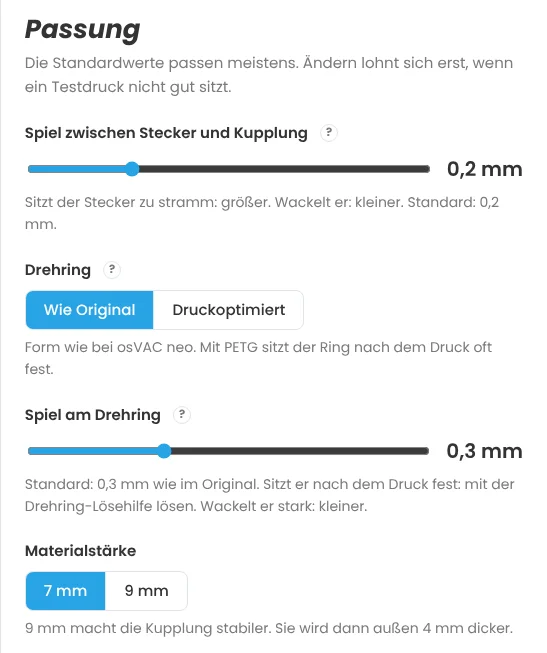
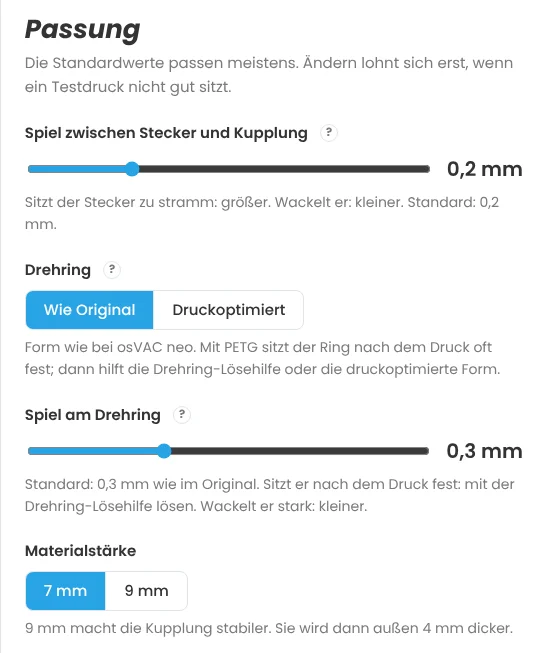
Drehring: Hinweistexte überarbeitet (Original: Lösehilfe statt mehr Spiel; druckoptimiert ohne Entwicklungs-Hinweis)
Claude-Session: https://claude.ai/code/session_012KSPQXJxAYH6j38Lu6Kb25

Changed region(s): [[0.0932, 0.5513, 0.9013, 0.5819]]

diff --git a/src/lib/app.svelte.ts b/src/lib/app.svelte.ts
@@ -403,7 +403,7 @@ class AppState {
     swivel: this.swivelPrint
       ? `Der Drehring wird gleich mitgedruckt. Das Spiel gilt für die beiden senkrechten Dichtflächen; an den Schrägen ist der Spalt 0,15 mm weiter (mindestens 0,45 mm). Ist das Spiel zu klein, klebt er fest; ist es groß, wackelt er und zieht etwas mehr Falschluft. Höchstens ${fmt(this.swivelMax, 2)} mm.`
       : `Der Drehring wird gleich mitgedruckt. Ist das Spiel zu klein, klebt er fest. Höchstens ${fmt(this.swivelMax, 2)} mm${this.kind.id !== 'MH' ? ` bei ${this.input.generalMaterialWidth} mm Materialstärke, sonst berührt der äußere Ring den Schlauchteil` : ''}.`,
-    swivelStyle: 'Wie im Original: Form von osVAC neo, mit PETG sitzt der Ring nach dem Druck oft fest. Druckoptimiert: eigene Form, bei der nichts flach über einem Spalt hängt. Alle Flächen, die beim Druck nach unten zeigen, sind mindestens 45° steil; frei beginnt nur die schmale Spitze eines Rings, 0,65 mm über dem anderen. Der Ring soll sich so direkt nach dem Druck drehen. Passt nicht zu Ersatzteilen des Originals; der Schlauchadapter wird 0,5 mm länger. Noch nicht als Testdruck geprüft.',
+    swivelStyle: 'Wie im Original: Form von osVAC neo, mit PETG sitzt der Ring nach dem Druck oft fest. Druckoptimiert: eigene Form, bei der nichts flach über einem Spalt hängt. Alle Flächen, die beim Druck nach unten zeigen, sind mindestens 45° steil; frei beginnt nur die schmale Spitze eines Rings, 0,65 mm über dem anderen. Der Ring dreht sich so direkt nach dem Druck, auch mit PETG. Passt nicht zu Ersatzteilen des Originals; der Schlauchadapter wird 0,5 mm länger.',
     refill: 'Setzt Platte und Löcher wieder auf Werte, die zur Öffnung passen, so wie beim ersten Umschalten auf „Rechteckig“ oder „Rund“. Deine eigenen Eingaben in diesen Feldern werden dabei ersetzt. Solange du dort nichts selbst änderst, passt das Programm die Werte von allein an, wenn sich die Öffnung ändert.',
     magnetGap: 'Die Muffe ist um das Doppelte dieses Werts weiter als der Stutzen. Die Schraubklemme zieht sie zusammen, deshalb darf es etwas mehr Luft sein als bei einer Steckverbindung. Geht der Adapter schwer auf den Stutzen: größer.',
     magnetFit: 'Luft zwischen dem Bund am Adapter und der Tasche in der Kupplung, je Seite. Der Bund hält die Teile mittig; die Magnete ziehen sie zusammen. Geht die Kupplung schwer auf: größer. Wackelt sie seitlich: kleiner.',
@@ -518,7 +518,11 @@ class AppState {
     else if (!this.femaleOnBed) t.push('Stützen werden nicht gebraucht, im Slicer ausschalten.');
     if (this.femaleOnBed) t.push(this.femaleOnBedText);
     if (this.hasSwivel)
-      t.push(`Nach dem Druck den Schlauchteil einmal kräftig gegen ${this.kind.id === 'FH' ? 'die Kupplung' : this.kind.id === 'BLEED' ? 'das Rohr des Reglers' : 'das Gehäuse'} drehen, bis sich der Ring leicht bewegt. Klemmt er, beim nächsten Mal in „Passung“ das Spiel am Drehring erhöhen.`);
+      t.push(
+        this.swivelPrint
+          ? `Nach dem Druck den Schlauchteil einmal gegen ${this.kind.id === 'FH' ? 'die Kupplung' : this.kind.id === 'BLEED' ? 'das Rohr des Reglers' : 'das Gehäuse'} drehen: Der Ring löst sich mit einem leichten Ruck und läuft dann frei. Geht er schwer, beim nächsten Mal in „Passung“ das Spiel am Drehring etwas erhöhen.`
+          : `Nach dem Druck den Schlauchteil einmal kräftig gegen ${this.kind.id === 'FH' ? 'die Kupplung' : this.kind.id === 'BLEED' ? 'das Rohr des Reglers' : 'das Gehäuse'} drehen, bis sich der Ring leicht bewegt. Sitzt er fest, hilft die Drehring-Lösehilfe.`,
+      );
     if (this.kind.machine && this.machine.holes) t.push('Die drei kleinen Löcher sind für Senkkopfschrauben (Ø 4 mm), falls der Adapter zusätzlich halten soll.');
     if (this.kind.gate) t.push(...this.gateTips);
     if (this.kind.magnet) t.push(...this.magnetTips);
@@ -543,8 +547,8 @@ class AppState {
         `Slicer-Meldung: ${two ? 'Die beiden Ringe werden' : 'Der Ring wird'} gleich mitgedruckt und ${two ? 'liegen' : 'liegt'} mit dem eingestellten Spiel über dem Teil darunter; die unterste Schicht hängt kurz in der Luft. Bambu Studio meldet das je nach Version als „schwebende Bereiche“ oder „fliegender Träger“ (andere Slicer z. B. „floating regions“ oder „floating cantilever“). Das ist gewollt: Meldung wegklicken und keine Stützen einschalten, sonst ${two ? 'wachsen die Ringe' : 'wächst der Ring'} fest.`,
       );
     }
-    if (this.hasSwivel && !this.swivelPrint && this.input.slipRingGapSize <= 0.3)
-      t.push('Drehring: Das Spiel ist auf 0,3 mm (wie im Original). Beim Druck mit PETG kann der Ring damit festsitzen; für PETG in „Passung“ 0,35–0,5 mm einstellen.');
+    if (this.hasSwivel && !this.swivelPrint)
+      t.push('Drehring in der Form des Originals: Mit PETG sitzt er nach dem Druck oft fest, auch mit mehr Spiel. Dann mit der Drehring-Lösehilfe lösen, oder in „Passung“ den druckoptimierten Drehring wählen, der sich direkt nach dem Druck dreht.');
     if (this.hasBleed)
       t.push(`Der Nebenluft-Ring wird gleich mitgedruckt. Nach dem Druck den Ring ein paarmal kräftig hin und her drehen, bis er leicht läuft. Um 60° drehen: von ganz auf (Fenster übereinander) bis ganz zu. Dreht er zu schwer oder klebt fest: in „Passung“ mehr Spiel am Nebenluft-Ring einstellen (jetzt ${fmt(this.bleedGap, 2)} mm).`);
     const c = this.free.c;

diff --git a/public/anleitung.html b/public/anleitung.html
@@ -127,11 +127,11 @@ figure a.zoom{cursor:zoom-in;display:inline-block;max-width:100%}
 <figure class="small"><a href="anleitung/passung-schlauch.webp" class="zoom"><img src="anleitung/passung-schlauch.webp" width="547" height="653" alt="Passung beim Schlauchadapter" loading="lazy"></a><figcaption>Passung beim Schlauchadapter</figcaption></figure>
 <ul>
 <li><strong>Spiel zwischen Stecker und Kupplung:</strong> wie bei <a href="#stecker-kupplung">Stecker ↔ Kupplung</a>.</li>
-<li><strong>Drehring:</strong> <em>Wie Original</em> hat die Form von osVAC neo. <em>Druckoptimiert</em> ist eine eigene Form (in Entwicklung): Alle Flächen, die beim Druck nach unten zeigen, sind mindestens 45° steil, und nichts hängt flach über einem Spalt. Frei in der Luft beginnt nur die schmale Spitze eines Rings, 0,65 mm über dem anderen. So soll sich der Ring direkt nach dem Druck drehen. Der Ring an der Kupplung bzw. am Gehäuse sitzt dabei innen, der Ring am Schlauchteil liegt außen als Hülse darüber. Der Schlauchadapter mit Kupplung wird 0,5 mm länger. Ein Testdruck steht noch aus.</li>
+<li><strong>Drehring:</strong> <em>Wie Original</em> hat die Form von osVAC neo. <em>Druckoptimiert</em> ist eine eigene Form: Alle Flächen, die beim Druck nach unten zeigen, sind mindestens 45° steil, und nichts hängt flach über einem Spalt. Frei in der Luft beginnt nur die schmale Spitze eines Rings, 0,65 mm über dem anderen. So dreht sich der Ring direkt nach dem Druck, auch mit PETG. Der Ring an der Kupplung bzw. am Gehäuse sitzt dabei innen, der Ring am Schlauchteil liegt außen als Hülse darüber. Der Schlauchadapter mit Kupplung wird 0,5 mm länger. Mit Ersatzteilen des Originals passt er nicht zusammen.</li>
 <li><strong>Spiel am Drehring:</strong> Der Ring wird gleich mitgedruckt. Ist das Spiel zu klein, klebt er fest. Standard sind 0,3 mm wie im Original. Beim druckoptimierten Drehring gilt der Wert für die beiden senkrechten Dichtflächen, an den Schrägen ist der Spalt 0,15 mm weiter, mindestens 0,45 mm (Spiel höchstens 0,5 mm). Sitzt der Ring nach dem Druck fest, hilft die <a href="#loesehilfe">Drehring-Lösehilfe</a>.</li>
 <li><strong>Materialstärke:</strong> 9 mm statt 7 mm macht die Kupplung stabiler, sie wird dann außen 4 mm dicker.</li>
 </ul>
-<div class="box tip"><strong>Hinweis:</strong> Nach dem Druck den Schlauchteil einmal kräftig drehen, bis sich der Ring leicht bewegt. Sitzt er richtig fest, hilft die <a href="#loesehilfe">Drehring-Lösehilfe</a>.</div>
+<div class="box tip"><strong>Hinweis:</strong> Nach dem Druck den Schlauchteil einmal gegen die Kupplung bzw. das Gehäuse drehen. Der druckoptimierte Drehring löst sich mit einem leichten Ruck. Der Ring in der Form des Originals braucht oft Kraft; sitzt er richtig fest, hilft die <a href="#loesehilfe">Drehring-Lösehilfe</a>.</div>
 <p class="up"><a href="#oben">nach oben</a></p></section>
 <section><h2 id="stutzen">Adapter auf einen Stutzen</h2>
 <p><em>Kupplung → Stutzen</em> und <em>Stecker → Stutzen</em> verbinden osVAC neo mit einem Gerät, das einen runden Absaugstutzen hat. Du misst den Stutzen mit einem Messschieber aus, die App baut den passenden Adapter.</p>
@@ -395,7 +395,7 @@ figure a.zoom{cursor:zoom-in;display:inline-block;max-width:100%}
 <h3 id="der-stecker-passt-nicht-oder-wackelt">Der Stecker passt nicht oder wackelt.</h3>
 <p>In <a href="#passung">Passung</a> das Spiel ändern: zu stramm → größer, wackelt → kleiner. Dann neu drucken. Mit dem <a href="#druckbett">Druckbett</a> kannst du mehrere Werte auf einmal ausprobieren.</p>
 <h3 id="der-drehring-dreht-sich-nicht">Der Drehring dreht sich nicht.</h3>
-<p>Kräftig drehen, z. B. mit der <a href="#loesehilfe">Drehring-Lösehilfe</a>. Beim nächsten Druck in <a href="#passung">Passung</a> das Spiel am Drehring erhöhen (für PETG 0,35 bis 0,5 mm).</p>
+<p>Kräftig drehen, z. B. mit der <a href="#loesehilfe">Drehring-Lösehilfe</a>. In der Form des Originals sitzt der Ring mit PETG oft fest, auch mit mehr Spiel; beim nächsten Druck in <a href="#passung">Passung</a> besser <em>Druckoptimiert</em> wählen. Klemmt auch der druckoptimierte Drehring, das Spiel etwas erhöhen.</p>
 <h3 id="der-download-ist-gesperrt">Der Download ist gesperrt.</h3>
 <p>Irgendwo ist ein roter Hinweis. Die Karte mit dem roten Ausrufezeichen öffnen und den Hinweis beheben, oft mit einem Klick auf den vorgeschlagenen Knopf. Bei einer <a href="#kontur">eigenen Kontur</a> fehlt vielleicht noch die Kontur (blauer Hinweis).</p>
 <h3 id="die-vorschau-ist-blass">Die Vorschau ist blass.</h3>

diff --git a/src/components/steps/StepFit.svelte b/src/components/steps/StepFit.svelte
@@ -73,7 +73,7 @@
       {/each}
     </div>
     <HelpText id="swivelStyle" />
-    <p class="hint">{app.swivelStyle === 'print' ? 'Eigene Form: soll sich direkt nach dem Druck drehen, Testdruck steht noch aus.' : 'Form wie bei osVAC neo. Mit PETG sitzt der Ring nach dem Druck oft fest.'}</p>
+    <p class="hint">{app.swivelStyle === 'print' ? 'Eigene Form: dreht sich direkt nach dem Druck, auch mit PETG.' : 'Form wie bei osVAC neo. Mit PETG sitzt der Ring nach dem Druck oft fest; dann hilft die Drehring-Lösehilfe oder die druckoptimierte Form.'}</p>
   </fieldset>
 {/if}
 

diff --git a/CHANGELOG.md b/CHANGELOG.md
@@ -8,7 +8,7 @@ Entwicklungsumgebung und Programm haben jetzt denselben Stand: Was bisher nur un
 
 - Nebenluft-Regler: **Nebenluft-Ring druckoptimiert**. An den schrägen Flanken oben und unten ist der Spalt 0,15 mm weiter als das eingestellte Spiel (mindestens 0,45 mm), an der Innenfläche bleibt es wie eingestellt. Der untere Bund ist außen unter dem Anfang des Rings etwas abgesenkt: Die erste Schicht des Rings, die frei beginnt, liegt gut 1 mm über dem Bund statt knapp 0,5 mm. Die Griffzähne wachsen unten schräg aus dem Ring, statt flach in der Luft zu beginnen. Die Mulden der Raste haben etwas mehr Luft. Der Regler wird dadurch 0,4 mm höher (bei 0,2 mm Spiel 0,7 mm). Neue Prüfung `npm run test:bleed`. Testdruck steht aus.
 - Neu: **Magnet-Schnellkupplung Ø100** für große Geräte mit 100-mm-Absaugung. Maschinenadapter mit Schraubklemme (M5 × 25 und selbstsichernde Mutter) und Schlauchkupplung mit Links- oder Rechtsgewinde halten über je 8 eingedruckte Neodym-Magnete (10 × 3, 12 × 5 oder 15 × 3 mm) zusammen, ein Bund zentriert sie. Die Druckhinweise nennen die Höhe der Druckpause zum Einlegen der Magnete. Druckt ohne Stützen. Eigenes System, passt nicht zu osVAC neo. Anleitung mit eigenem Abschnitt.
-- Neu: **druckoptimierter Drehring** am Schlauchadapter (Kupplung ↔ Schlauch, Stecker ↔ Schlauch) und am Nebenluft-Regler, in „Passung“ wählbar (*Wie Original* / *Druckoptimiert*). Er soll sich direkt nach dem Druck drehen: Alle Flächen, die beim Druck nach unten zeigen, sind mindestens 45° steil, nichts hängt flach über einem Spalt, frei beginnt nur die schmale Spitze eines Rings (0,65 mm über dem anderen statt 0,4 mm, rund 15 statt 700 mm²). Spiel an den senkrechten Dichtflächen wie eingestellt, an den Schrägen 0,15 mm mehr (mindestens 0,45 mm). Der Ring an der Kupplung bzw. am Gehäuse sitzt innen, der am Schlauchteil außen als Hülse; beim Stecker ↔ Schlauch ist die Unterkante des Gehäuses 45° statt 35° steil. Der Schlauchadapter mit Kupplung wird 0,5 mm länger. Neue Prüfung `npm run test:swivel`. Testdruck steht aus.
+- Neu: **druckoptimierter Drehring** am Schlauchadapter (Kupplung ↔ Schlauch, Stecker ↔ Schlauch) und am Nebenluft-Regler, in „Passung“ wählbar (*Wie Original* / *Druckoptimiert*). Er dreht sich direkt nach dem Druck, auch mit PETG: Alle Flächen, die beim Druck nach unten zeigen, sind mindestens 45° steil, nichts hängt flach über einem Spalt, frei beginnt nur die schmale Spitze eines Rings (0,65 mm über dem anderen statt 0,4 mm, rund 15 statt 700 mm²). Spiel an den senkrechten Dichtflächen wie eingestellt, an den Schrägen 0,15 mm mehr (mindestens 0,45 mm). Der Ring an der Kupplung bzw. am Gehäuse sitzt innen, der am Schlauchteil außen als Hülse; beim Stecker ↔ Schlauch ist die Unterkante des Gehäuses 45° statt 35° steil. Der Schlauchadapter mit Kupplung wird 0,5 mm länger. Neue Prüfung `npm run test:swivel`.
 - Drehring wie im Original: Standard-Spiel wieder 0,3 mm wie im Original (vorher 0,35 mm). Wer die App schon benutzt hat, behält seinen gespeicherten Wert.
 
 ## 0.5.5

diff --git a/docs/anleitung.md b/docs/anleitung.md
@@ -95,11 +95,11 @@ Wie es danach weitergeht, steht unter [Download](#download).
 ![Passung beim Schlauchadapter](anleitung/passung-schlauch.webp){klein}
 
 - **Spiel zwischen Stecker und Kupplung:** wie bei [Stecker ↔ Kupplung](#stecker-kupplung).
-- **Drehring:** *Wie Original* hat die Form von osVAC neo. *Druckoptimiert* ist eine eigene Form (in Entwicklung): Alle Flächen, die beim Druck nach unten zeigen, sind mindestens 45° steil, und nichts hängt flach über einem Spalt. Frei in der Luft beginnt nur die schmale Spitze eines Rings, 0,65 mm über dem anderen. So soll sich der Ring direkt nach dem Druck drehen. Der Ring an der Kupplung bzw. am Gehäuse sitzt dabei innen, der Ring am Schlauchteil liegt außen als Hülse darüber. Der Schlauchadapter mit Kupplung wird 0,5 mm länger. Ein Testdruck steht noch aus.
+- **Drehring:** *Wie Original* hat die Form von osVAC neo. *Druckoptimiert* ist eine eigene Form: Alle Flächen, die beim Druck nach unten zeigen, sind mindestens 45° steil, und nichts hängt flach über einem Spalt. Frei in der Luft beginnt nur die schmale Spitze eines Rings, 0,65 mm über dem anderen. So dreht sich der Ring direkt nach dem Druck, auch mit PETG. Der Ring an der Kupplung bzw. am Gehäuse sitzt dabei innen, der Ring am Schlauchteil liegt außen als Hülse darüber. Der Schlauchadapter mit Kupplung wird 0,5 mm länger. Mit Ersatzteilen des Originals passt er nicht zusammen.
 - **Spiel am Drehring:** Der Ring wird gleich mitgedruckt. Ist das Spiel zu klein, klebt er fest. Standard sind 0,3 mm wie im Original. Beim druckoptimierten Drehring gilt der Wert für die beiden senkrechten Dichtflächen, an den Schrägen ist der Spalt 0,15 mm weiter, mindestens 0,45 mm (Spiel höchstens 0,5 mm). Sitzt der Ring nach dem Druck fest, hilft die [Drehring-Lösehilfe](#loesehilfe).
 - **Materialstärke:** 9 mm statt 7 mm macht die Kupplung stabiler, sie wird dann außen 4 mm dicker.
 
-> Hinweis: Nach dem Druck den Schlauchteil einmal kräftig drehen, bis sich der Ring leicht bewegt. Sitzt er richtig fest, hilft die [Drehring-Lösehilfe](#loesehilfe).
+> Hinweis: Nach dem Druck den Schlauchteil einmal gegen die Kupplung bzw. das Gehäuse drehen. Der druckoptimierte Drehring löst sich mit einem leichten Ruck. Der Ring in der Form des Originals braucht oft Kraft; sitzt er richtig fest, hilft die [Drehring-Lösehilfe](#loesehilfe).
 
 ## Adapter auf einen Stutzen {#stutzen}
 
@@ -448,7 +448,7 @@ In [Passung](#passung) das Spiel ändern: zu stramm → größer, wackelt → kl
 
 ### Der Drehring dreht sich nicht.
 
-Kräftig drehen, z. B. mit der [Drehring-Lösehilfe](#loesehilfe). Beim nächsten Druck in [Passung](#passung) das Spiel am Drehring erhöhen (für PETG 0,35 bis 0,5 mm).
+Kräftig drehen, z. B. mit der [Drehring-Lösehilfe](#loesehilfe). In der Form des Originals sitzt der Ring mit PETG oft fest, auch mit mehr Spiel; beim nächsten Druck in [Passung](#passung) besser *Druckoptimiert* wählen. Klemmt auch der druckoptimierte Drehring, das Spiel etwas erhöhen.
 
 ### Der Download ist gesperrt.
 
